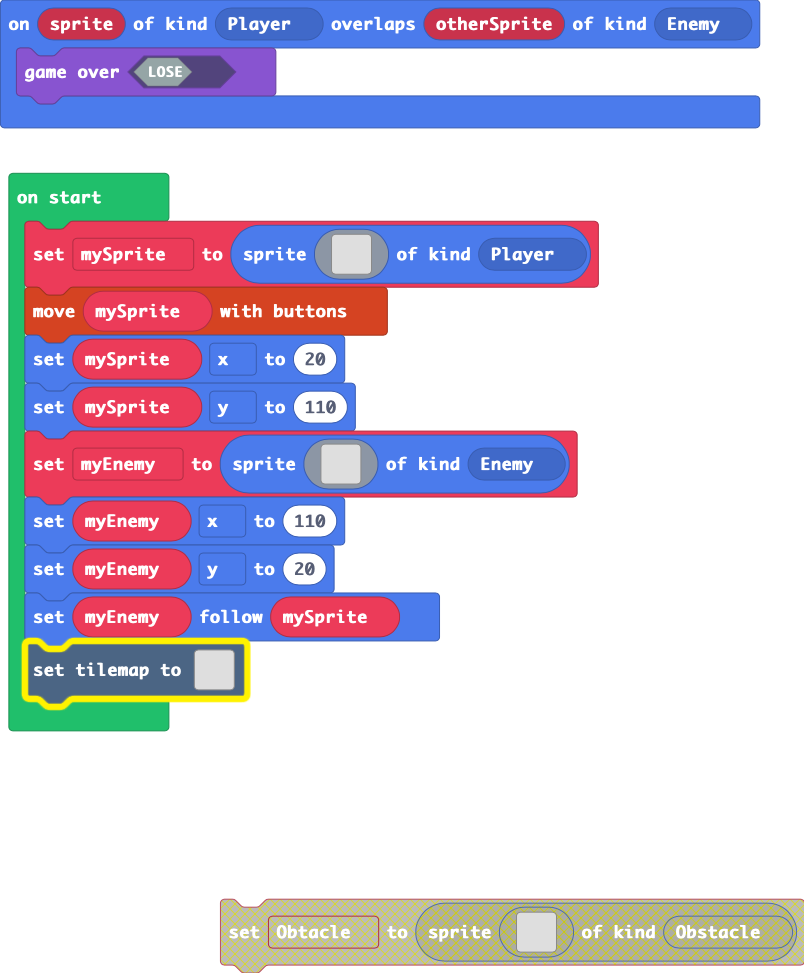
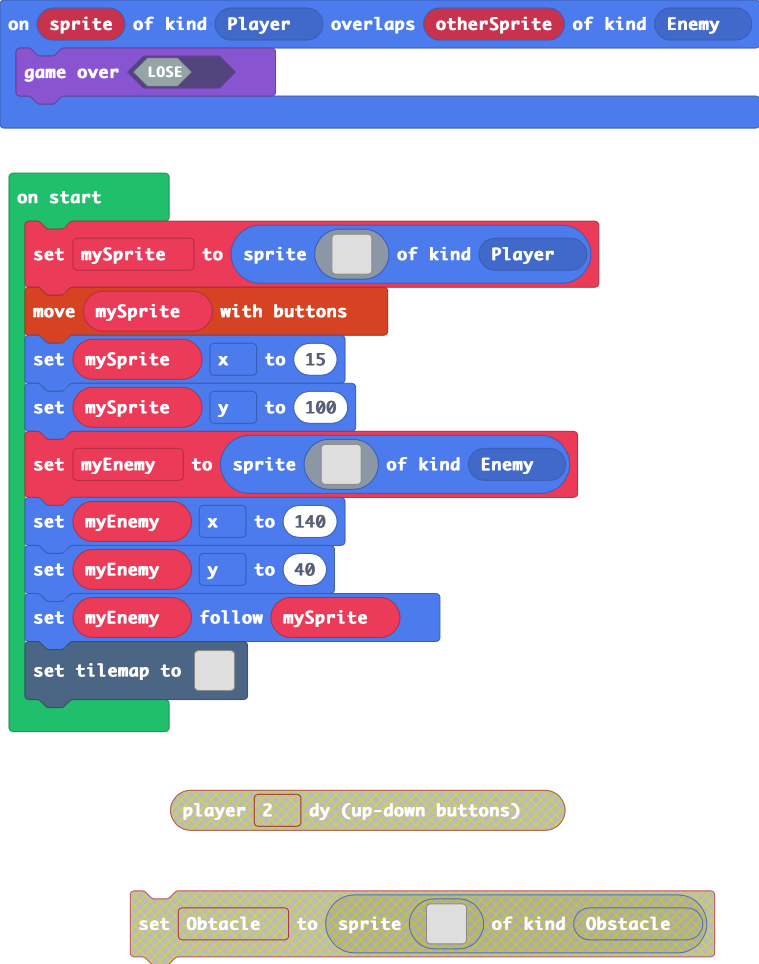
Update pxt.json, main.blocks, main.ts, tilemap.g.jres, tilemap.g.ts, images.g.jres, images.g.ts

diff --git a/tilemap.g.ts b/tilemap.g.ts
@@ -3,5 +3,50 @@ namespace myTiles {
     //% fixedInstance jres blockIdentity=images._tile
     export const transparency16 = image.ofBuffer(hex``);
 
+    helpers._registerFactory("tilemap", function(name: string) {
+        switch(helpers.stringTrim(name)) {
+            case "level1":
+            case "level1":return tiles.createTilemap(hex`1000100000000000000000000000000000000000000000000000000000000000000000000000000000000000000000000000000000000000000000000000000000000000000000000000000000000000000000000000000000000000000000000000000000000000000000000000000000000000000000000000000000000000000000000000000000000000000000000000000000000000000000000000000000000000000000000000000000000000000000000000000000000000000000000000000000000000000000000000000000000000000000000000000000000000000000000000000000000000000000000000000000000000000000000000000000000000`, img`
+. . . . . . . . . . . . . . . . 
+. . . . . . . . . . . . . . . . 
+. . . . . . . . . . . . . . . . 
+. . . . . . . . . . . . . . . . 
+. . . . . . . . . . . . . . . . 
+. . . . . . . . . . . . . . . . 
+. . . . . . . . . . . . . . . . 
+. . . . . . . . . . . . . . . . 
+. . . . . . . . . . . . . . . . 
+. . . . . . . . . . . . . . . . 
+. . . . . . . . . . . . . . . . 
+. . . . . . . . . . . . . . . . 
+. . . . . . . . . . . . . . . . 
+. . . . . . . . . . . . . . . . 
+. . . . . . . . . . . . . . . . 
+. . . . . . . . . . . . . . . . 
+`, [myTiles.transparency16], TileScale.Sixteen);
+            case "level2":
[1 lines of base64/hex data omitted]
+2 2 2 2 2 2 2 2 2 2 
+2 . . . . . . . . . 
+2 . 2 2 2 . 2 2 . 2 
+2 . . . . . . . . 2 
+2 . 2 . 2 2 2 2 . 2 
+2 . . . . . . . . 2 
+2 2 2 . 2 2 2 2 . 2 
+2 . . . . . . . . 2 
+2 . 2 . . 2 . 2 . . 
+2 2 2 2 2 2 2 2 2 2 
+`, [myTiles.transparency16,sprites.dungeon.darkGroundNorthWest0,sprites.dungeon.darkGroundWest,sprites.dungeon.darkGroundNorth,sprites.dungeon.darkGroundEast,sprites.dungeon.darkGroundNorthEast0,sprites.dungeon.darkGroundSouth,sprites.dungeon.darkGroundSouthWest0], TileScale.Sixteen);
+        }
+        return null;
+    })
+
+    helpers._registerFactory("tile", function(name: string) {
+        switch(helpers.stringTrim(name)) {
+            case "transparency16":return transparency16;
+        }
+        return null;
+    })
+
 }
 // Auto-generated code. Do not edit.

diff --git a/main.ts b/main.ts
@@ -31,8 +31,8 @@ let mySprite = sprites.create(img`
     ........................
     `, SpriteKind.Player)
 controller.moveSprite(mySprite)
-mySprite.x = 20
-mySprite.y = 110
+mySprite.x = 15
+mySprite.y = 100
 let myEnemy = sprites.create(img`
     . . . . . . f f f f 4 4 f . . . 
     . . . . f f b f 5 4 5 5 4 f . . 
@@ -51,24 +51,7 @@ let myEnemy = sprites.create(img`
     . . . . f f d 1 d 1 d 1 f f . . 
     . . . . . . f f b b f f . . . . 
     `, SpriteKind.Enemy)
-myEnemy.x = 110
-myEnemy.y = 20
+myEnemy.x = 140
+myEnemy.y = 40
 myEnemy.follow(mySprite)
-tiles.setTilemap(tiles.createTilemap(hex`1000100001010101010101010101010101010101010000000000000000000000000000010100010303030303030300030303000101000200000000000004000000000001010002000103030300040003070600010100020000000000000400000000000101070100080807050004000003030001010000000000000000070707040000010100000007070707000000000400040101000400000000050303030004000401010004000707070700000000040004010100060000000000000000000000000101000303030303030303030500040001010000000000000000000004000400010104000400040004000400040004000101010101010101010101010101010101`, img`
-    2 2 2 2 2 2 2 2 2 2 2 2 2 2 2 2 
-    2 . . . . . . . . . . . . . . 2 
-    2 . 2 2 2 2 2 2 2 2 . 2 2 2 . 2 
-    2 . 2 . . . . . . 2 . . . . . 2 
-    2 . 2 . 2 2 2 2 . 2 . 2 2 2 . 2 
-    2 . 2 . . . . . . 2 . . . . . 2 
-    2 2 2 . 2 2 2 2 . 2 . . 2 2 . 2 
-    2 . . . . . . . . 2 2 2 2 . . 2 
-    2 . . . 2 2 2 2 . . . . 2 . 2 2 
-    2 . 2 . . . . 2 2 2 2 . 2 . 2 2 
-    2 . 2 . 2 2 2 2 . . . . 2 . 2 2 
-    2 . 2 . . . . . . . . . . . . 2 
-    2 . 2 2 2 2 2 2 2 2 2 2 . 2 . 2 
-    2 . . . . . . . . . . 2 . 2 . 2 
-    2 2 . 2 . 2 . 2 . 2 . 2 . 2 . 2 
-    2 2 2 2 2 2 2 2 2 2 2 2 2 2 2 2 
-    `, [myTiles.transparency16,sprites.dungeon.darkGroundNorthWest0,sprites.dungeon.darkGroundWest,sprites.dungeon.darkGroundNorth,sprites.dungeon.darkGroundEast,sprites.dungeon.darkGroundNorthEast0,sprites.dungeon.darkGroundSouthEast0,sprites.dungeon.darkGroundSouth,sprites.dungeon.darkGroundSouthWest0], TileScale.Sixteen))
+tiles.setTilemap(tilemap`level2`)

diff --git a/images.g.ts b/images.g.ts
@@ -1,0 +1,74 @@
+// Auto-generated code. Do not edit.
+namespace myImages {
+
+    helpers._registerFactory("image", function(name: string) {
+        switch(helpers.stringTrim(name)) {
+            case "image2":return img`
+.......ff...............
+....ffff2ff.............
+..ffeeeef2ff............
+.ffeeeeef22ff...........
+.feeeeffeeeef...........
+.fffffee2222ef..........
+fffe222ffffe2f..........
+ffffffffeeefff..........
+fefe44ebf44eef..........
+.fee4d4bfddef...........
+..feee4dddee.c..........
+...f2222eeddeccccccc....
+...f444e44ddecddddd.....
+...fffffeeee.ccccc......
+..ffffffff...c..........
+..fff..ff...............
+........................
+........................
+........................
+........................
+........................
+........................
+........................
+........................
+`;
+            case "image3":return img`
+. . . . . . f f f f 4 4 f . . . 
+. . . . f f b f 5 4 5 5 4 f . . 
+. . . f b 3 3 e 4 5 5 5 5 f . . 
+. . f b 3 3 3 3 e 4 4 4 e f . . 
+. . f 3 3 3 3 3 3 3 3 3 3 f . . 
+. . f 3 3 3 3 e b 3 e e 3 3 f . 
+. . f 3 3 3 3 f f e e e 3 3 f . 
+. . f b b b b f b f e e e 3 f . 
+. . f b b b b e 1 f 4 4 e f . . 
+. f f b b b b f 4 4 4 4 f . . . 
+. f b b b b f f f e e e f . . . 
+. . f b b f 4 4 e d d d f . . . 
+. . . f f e 4 4 e d d d f . . . 
+. . . . f b e e b d b d b f . . 
+. . . . f f d 1 d 1 d 1 f f . . 
+. . . . . . f f b b f f . . . . 
+`;
+            case "image1":return img`
+8 8 8 8 8 8 8 8 8 8 
+8 . . . . . . . . 8 
+8 . 8 . 8 . . 8 . 8 
+8 . 8 . 8 8 . . . 8 
+8 . . . . 8 . 8 . 8 
+8 . 8 . . 8 . . . 8 
+8 . 8 8 . 8 8 8 8 8 
+8 . 8 . . . 8 . . 8 
+8 . . . 8 . . . 8 8 
+8 8 8 8 8 8 8 8 8 8 
+`;
+        }
+        return null;
+    })
+
+    helpers._registerFactory("animation", function(name: string) {
+        switch(helpers.stringTrim(name)) {
+
+        }
+        return null;
+    })
+
+}
+// Auto-generated code. Do not edit.
